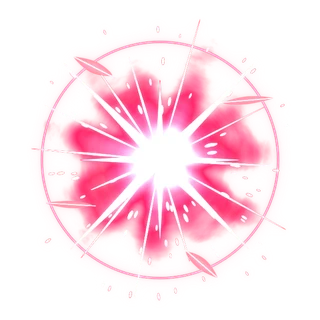
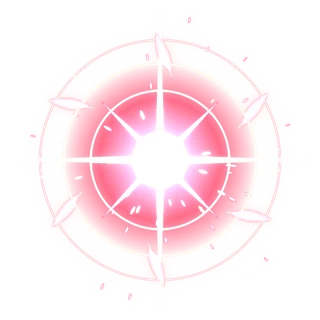
お試し版: 推しごとに違う攻撃のかたち(天使=光の槍、オーバーサイズ=衝撃波、ふくれっつら=ハート5連発、ためいき=つむじ風、ニット=毛糸、はなかんむり=花)
Claude-Session: https://claude.ai/code/session_01TG9K78DLjDwnXYj2k1dvQq

diff --git a/preview/tcg_play.html b/preview/tcg_play.html
@@ -5770,7 +5770,7 @@ function ofxCharge(K,st){const A=ofxRect(st);if(!A)return;ofxSnd(K,'charge');con
     f:u=>{const a=a0+u*Math.PI*1.8,e=ofxE.io(u),r=r0*(1-e)+R*.35*e;return{x:A.x+Math.cos(a)*r,y:A.y+A.h*.1-ofxE.o3(u)*A.h*.6+Math.sin(a)*r*.4,s:sz*(1-.35*u),a:Math.min(1,u*7)*(1-Math.pow(u,3)),r:a}}})}
   ofxGl(A,col,6)}
 /* the hit: her two slashes cross, her flash, her pieces burst out, a ring in her colour */
-function ofxStrike(K,ax,ay,tx,ty,rt,heavy){ofxSnd(K,'hit');const col=K.c[0]||'#ff8fd0',c2=K.c[1]||'#ffffff',RW=rt.width||70,W=Math.max(200,RW*3.4),sl=ovxImg('sweep_'+K.t),bu=ovxImg('burst_'+K.t),dir=tx>=ax?1:-1;
+function ofxStrikeImp(K,ax,ay,tx,ty,rt,heavy){ofxSnd(K,'hit');const col=K.c[0]||'#ff8fd0',c2=K.c[1]||'#ffffff',RW=rt.width||70,W=Math.max(200,RW*3.4),sl=ovxImg('sweep_'+K.t),bu=ovxImg('burst_'+K.t),dir=tx>=ax?1:-1;
   if(!OFX.noTint)ofxAdd({tint:1,col:col+'55',dur:200,f:u=>({x:0,y:0,a:1-u})});
   [[-32,0,1],[26,50,1],[dir*-4,105,1.25]].forEach(([r,dl,k],i)=>ofxAdd({pic:sl,fr:10,dur:420,dl,f:u=>{const e=ofxE.o5(Math.min(1,u*1.6));return{x:tx,y:ty,r:(r+dir*(1-e)*-24)*Math.PI/180,w:W*k,h:W*k/2,sx:(i%2?-1:1)*dir*(.85+.25*e),sy:1,a:1}}}));
   ofxAdd({pic:bu,dur:520,dl:20,f:u=>{const e=ofxE.o5(u),z=(heavy?2.6:2.1)*Math.max(70,RW);return{x:tx,y:ty,r:u*.6,w:z*(.2+.95*e),h:z*(.2+.95*e),a:(1-u)*1.25}}});
@@ -5780,6 +5780,63 @@ function ofxStrike(K,ax,ay,tx,ty,rt,heavy){ofxSnd(K,'hit');const col=K.c[0]||'#f
   for(let i=0;i<n;i++){const a=i/n*Math.PI*2+ofxRnd(-.25,.25),d=ofxRnd(.7,1.35)*Math.max(56,T.w),sz=ofxRnd(30,48);ofxAdd({k:ofxPick(K,i),dur:820,dl:15,spin:ofxRnd(1,2.2),f0:Math.random(),glow:col,streak:1,
     f:u=>{const e=ofxE.o5(u);return{x:T.x+Math.cos(a)*d*e,y:T.y+Math.sin(a)*d*.8*e+u*u*44,s:sz*(1.15-.45*u),a:1-Math.pow(u,2),r:a+u*3}}})}
   ofxGl(T,col,heavy?12:9)}
+
+
+/* (10/31) 推しごとに違う攻撃のかたち。小悪魔=三日月を3回 / 天使=上から光の槍 / オーバーサイズ=足元に丸い衝撃波 / ふくれっつら=ハート5連発 /
+   ためいき=つむじ風 / ニット=毛糸が巻きついて締まる / はなかんむり=足元から花が咲く。絵は Blender の ovx_sweep_<t>(10コマ) と ovx_burst_<t> */
+function ofxShk(n,dl){setTimeout(()=>{try{shake(n)}catch(e){}},D(dl||0))}
+function ofxBu(bu,x,y,z,dl,dur,spin){ofxAdd({pic:bu,dur:dur||520,dl:dl||0,f:u=>{const e=ofxE.o5(u);return{x,y,r:u*(spin||.5),w:z*(.2+.95*e),h:z*(.2+.95*e),a:(1-u)*1.25}}})}
+function ofxStrike(K,ax,ay,tx,ty,rt,heavy){const t=K.t||OVX_T[K.n]||'imp';if(t==='imp'||!OFX_MV[t])return ofxStrikeImp(K,ax,ay,tx,ty,rt,heavy);
+  ofxSnd(K,'hit');const col=K.c[0]||'#ff8fd0',c2=K.c[1]||'#ffffff',RW=Math.max(56,rt.width||70),RH=Math.max(70,rt.height||90),sl=ovxImg('sweep_'+t),bu=ovxImg('burst_'+t),dir=tx>=ax?1:-1,hv=heavy?1.25:1;
+  if(!OFX.noTint)ofxAdd({tint:1,col:col+'44',dur:200,f:u=>({x:0,y:0,a:1-u})});
+  OFX_MV[t]({K,col,c2,RW,RH,sl,bu,dir,hv,ax,ay,tx,ty,feet:ty+RH*.46,n:OFX_RM?.5:1});
+  ofxGl({x:tx,y:ty,w:RW,h:RH},col,heavy?10:7)}
+const OFX_MV={
+  angel(o){/* 光の線が上から差して、槍が落ちて刺さる */const W=Math.max(300,o.RW*4.4)*o.hv,r=Math.PI/2+o.dir*.16,ox=Math.cos(r)*.344*W,oy=Math.sin(r)*.344*W;
+    ofxAdd({pil:1,col:o.col,dur:260,f:u=>({x:o.tx,y:o.ty,w:14*(1-u)+4,h:innerHeight,a:Math.sin(u*Math.PI)*.8})});
+    ofxAdd({pic:o.sl,fr:10,dur:560,dl:40,f:u=>({x:o.tx-ox,y:o.ty-oy,r,w:W,h:W/2,a:1})});
+    ofxBu(o.bu,o.tx,o.ty,2.1*o.RW*o.hv,150,560,.25);
+    ofxAdd({ring:1,col:o.col,dur:620,dl:150,fl:.28,f:u=>({x:o.tx,y:o.feet,s:10+ofxE.o5(u)*o.RW*1.3,a:1-u,lw:4*(1-u)+1})});
+    for(let i=0;i<Math.round(9*o.n);i++){const x0=o.tx+ofxRnd(-1.1,1.1)*o.RW,sw=ofxRnd(10,24),ph=ofxRnd(0,6),sz=ofxRnd(30,42);ofxAdd({k:'feather',dur:1100,dl:180+i*35,spin:ofxRnd(.4,.8),f0:Math.random(),glow:o.col,
+      f:u=>({x:x0+Math.sin(ph+u*5)*sw,y:o.ty-o.RH*1.1+u*o.RH*1.5,s:sz,a:Math.min(1,u*5)*(1-Math.pow(u,2)),r:Math.sin(ph+u*4)*.6})})}
+    ofxShk(9,160)},
+  hood(o){/* ぶかぶかの袖でドン: 足元に丸い衝撃波が「ぼよん」と広がる */const W=Math.max(320,o.RW*4.8)*o.hv,h=W/2,cy=o.feet-.156*h;
+    ofxAdd({pic:o.sl,fr:10,dur:760,f:u=>({x:o.tx,y:cy,w:W,h,sx:1,sy:1,a:1})});
+    ofxAdd({pic:o.bu,dur:460,f:u=>{const e=ofxE.o3(u),z=1.9*o.RW*o.hv,q=1+.25*Math.sin(u*Math.PI*3)*(1-u);return{x:o.tx,y:o.ty,w:z*(.3+.8*e)*q,h:z*(.3+.8*e)/q,a:(1-u)*1.2}}});
+    for(let i=0;i<Math.round(10*o.n);i++){const a=i/10*Math.PI*2,d=ofxRnd(.6,1.3)*o.RW,sz=ofxRnd(24,40),top=ofxRnd(.8,1.5);ofxAdd({k:'bubble',dur:ofxRnd(800,1000),dl:120+i*25,spin:.3,f0:Math.random(),glow:o.col,
+      f:u=>({x:o.tx+Math.cos(a)*d*(.5+.5*ofxE.o3(u)),y:o.feet+Math.sin(a)*d*.3-ofxE.o3(u)*o.RH*top,s:sz*(.6+.6*u),a:Math.min(1,u*6)*(1-Math.pow(u,4)),r:0})})}
+    ofxShk(13,10);ofxShk(6,240)},
+  chibi(o){/* ハートの弾を5連発。当たるたびに「ぽんっ」 */const sx=o.tx-(o.tx-o.ax)*.55,sy=o.ty-(o.ty-o.ay)*.55-24,N=5;
+    for(let i=0;i<N;i++){const last=i===N-1,dl=i*90+(last?50:0),du=last?200:170,side=(i%2?1:-1)*(26+i*8),W=last?320:240,dx=o.tx-sx,dy=o.ty-sy,L=Math.hypot(dx,dy)||1,nx=-dy/L,ny=dx/L;
+      const P=u=>{const v=1-u;return{x:v*v*sx+2*v*u*((sx+o.tx)/2+nx*side)+u*u*o.tx,y:v*v*sy+2*v*u*((sy+o.ty)/2+ny*side)+u*u*o.ty}};
+      ofxAdd({pic:o.sl,fr:10,dur:du,dl,f:u=>{const e=ofxE.io(Math.min(1,u)),p=P(e),q=P(Math.min(1,e+.04)),r=Math.atan2(q.y-p.y,q.x-p.x);return{x:p.x-Math.cos(r)*.28*W,y:p.y-Math.sin(r)*.28*W,r,w:W,h:W/2,a:Math.min(1,u*5)}}});
+      const hx=o.tx+ofxRnd(-.2,.2)*o.RW,hy=o.ty+ofxRnd(-.2,.15)*o.RH;
+      ofxBu(o.bu,hx,hy,(last?2.2:1.05)*o.RW*o.hv,dl+du-10,last?520:300,.8);
+      ofxAdd({ring:1,col:o.col,dur:300,dl:dl+du-10,f:u=>({x:hx,y:hy,s:8+ofxE.o5(u)*o.RW*(last?.9:.45),a:1-u,lw:3*(1-u)+1,fl:.8})});
+      if(i)setTimeout(()=>ofxSnd(o.K,'hit'),D(dl+du-10));ofxShk(last?9:3,dl+du);
+      for(let k=0;k<(last?Math.round(8*o.n):2);k++){const a=ofxRnd(0,6.3),d=ofxRnd(.5,1.1)*o.RW*(last?1.2:.7);ofxAdd({k:'heart',dur:600,dl:dl+du,spin:.5,f0:Math.random(),glow:o.col,f:u=>{const e=ofxE.o5(u);return{x:hx+Math.cos(a)*d*e,y:hy+Math.sin(a)*d*.8*e-u*20,s:(last?34:24)*(1-.3*u),a:1-u*u,r:Math.cos(a)*.4}}})}}},
+  sigh(o){/* ため息の風が届いて、つむじ風が巻き上がる */const W=Math.max(280,o.RH*3)*o.hv,sx=o.tx-(o.tx-o.ax)*.6,sy=o.ty-(o.ty-o.ay)*.6;
+    for(let i=0;i<Math.round(8*o.n);i++){const ph=ofxRnd(0,6),amp=ofxRnd(14,34),sz=ofxRnd(26,36);ofxAdd({k:'petal',dur:300,dl:i*18,spin:2,f0:Math.random(),glow:o.col,streak:1,
+      f:u=>{const e=ofxE.io(u),x=sx+(o.tx-sx)*e,y=sy+(o.ty-sy)*e;return{x:x+Math.sin(ph+u*9)*amp*(1-u),y:y+Math.cos(ph+u*9)*amp*(1-u),s:sz,a:Math.min(1,u*6)*(1-Math.pow(u,6)),r:u*6}}})}
+    ofxAdd({pic:o.sl,fr:10,dur:860,dl:170,f:u=>({x:o.tx,y:o.feet-.422*W,r:-Math.PI/2,w:W,h:W/2,a:1})});
+    ofxBu(o.bu,o.tx,o.ty,1.7*o.RW*o.hv,200,640,1.6);
+    ofxAdd({ring:1,col:o.col,dur:700,dl:170,fl:.3,f:u=>({x:o.tx,y:o.feet,s:10+ofxE.o5(u)*o.RW*.9,a:1-u,lw:3})});
+    for(let i=0;i<Math.round(8*o.n);i++){const a0=i/8*Math.PI*2,sz=ofxRnd(26,36);ofxAdd({k:'petal',dur:900,dl:300+i*20,spin:1,f0:Math.random(),glow:o.col,
+      f:u=>{const a=a0+u*7,r=o.RW*(.45+.3*u);return{x:o.tx+Math.cos(a)*r,y:o.feet-ofxE.o3(u)*o.RH*1.6+Math.sin(a)*r*.3,s:sz,a:Math.min(1,u*6)*(1-Math.pow(u,2)),r:a}}})}
+    ofxShk(5,220)},
+  knit(o){/* 毛糸がしゅるしゅる巻きついて、きゅっと締まって、雪の結晶がはじける */const W=Math.max(200,o.RH*1.85)*o.hv;
+    ofxAdd({pic:o.sl,fr:10,dur:980,f:u=>({x:o.tx,y:o.ty,r:-Math.PI/2,w:W,h:W/2,a:1})});
+    ofxAdd({gl:1,col:'#ffffff',dur:240,dl:470,f:u=>({x:o.tx,y:o.ty,s:40*Math.sin(u*Math.PI),a:1})});
+    ofxBu(o.bu,o.tx,o.ty,2.1*o.RW*o.hv,480,620,.4);
+    ofxAdd({ring:1,col:o.col,dur:420,dl:480,f:u=>({x:o.tx,y:o.ty,s:12+ofxE.o5(u)*o.RW*1.1,a:1-u,lw:4*(1-u)+1,fl:.8})});
+    setTimeout(()=>ofxSnd(o.K,'hit'),D(480));ofxShk(8,490)},
+  crown(o){/* 相手の足元からつるが伸びて、花が咲いて、花びらが舞い上がる */const W=Math.max(320,o.RW*4.6)*o.hv,h=W/2;
+    ofxAdd({ring:1,col:o.c2,dur:600,f:u=>({x:o.tx,y:o.feet,s:10+ofxE.o5(u)*o.RW*.9,a:1-u*u,lw:3,fl:.25})});
+    ofxAdd({pic:o.sl,fr:10,dur:1050,f:u=>({x:o.tx,y:o.feet-.3875*h,w:W,h,a:1})});
+    ofxBu(o.bu,o.tx,o.ty-o.RH*.15,1.6*o.RW*o.hv,330,680,.3);
+    for(let i=0;i<Math.round(14*o.n);i++){const vx=ofxRnd(-1.2,1.2)*o.RW,vy=ofxRnd(1,1.8)*o.RH,sz=ofxRnd(24,36),k=i%3?'petal':'leaf';ofxAdd({k,dur:1000,dl:420+i*14,spin:ofxRnd(.6,1.4),f0:Math.random(),glow:o.col,
+      f:u=>{const e=ofxE.o3(u);return{x:o.tx+vx*e,y:o.ty-o.RH*.2-vy*e+u*u*40,s:sz,a:Math.min(1,u*6)*(1-Math.pow(u,2)),r:u*5}}})}
+    ofxShk(5,340)}};
 
 /* (10/29) 倒したときの決め: 推しごとに違う動き */
 function ofxFin(t,T,K,col){const W=Math.max(56,T.w),Hh=Math.max(70,T.h),R=OFX_RM?.5:1,P=(o)=>ofxAdd(Object.assign({spin:1,f0:Math.random(),glow:col},o));

diff --git a/preview/sw.js b/preview/sw.js
@@ -1,5 +1,5 @@
 /* Bump VERSION on every release: a changed sw.js is what makes phones show the update notice. */
-const VERSION = 'v143-preview-2026-10-30i';
+const VERSION = 'v143-preview-2026-10-31a';
 const CACHE = 'ladder-preview-' + VERSION;
 const SHELL = ['./', 'index.html', 'manifest.webmanifest', 'icon-192.png', 'icon-512.png', 'apple-touch-icon.png', 'tcg_spectator.js', 'motion_lifecycle.js',
   'kmr_hood.jpg', 'kmr_chibi.jpg', 'kmr_hoodie2.jpg', 'kmr_vt1.jpg', 'kmr_vt2.jpg', 'kmr_vt3.jpg',
